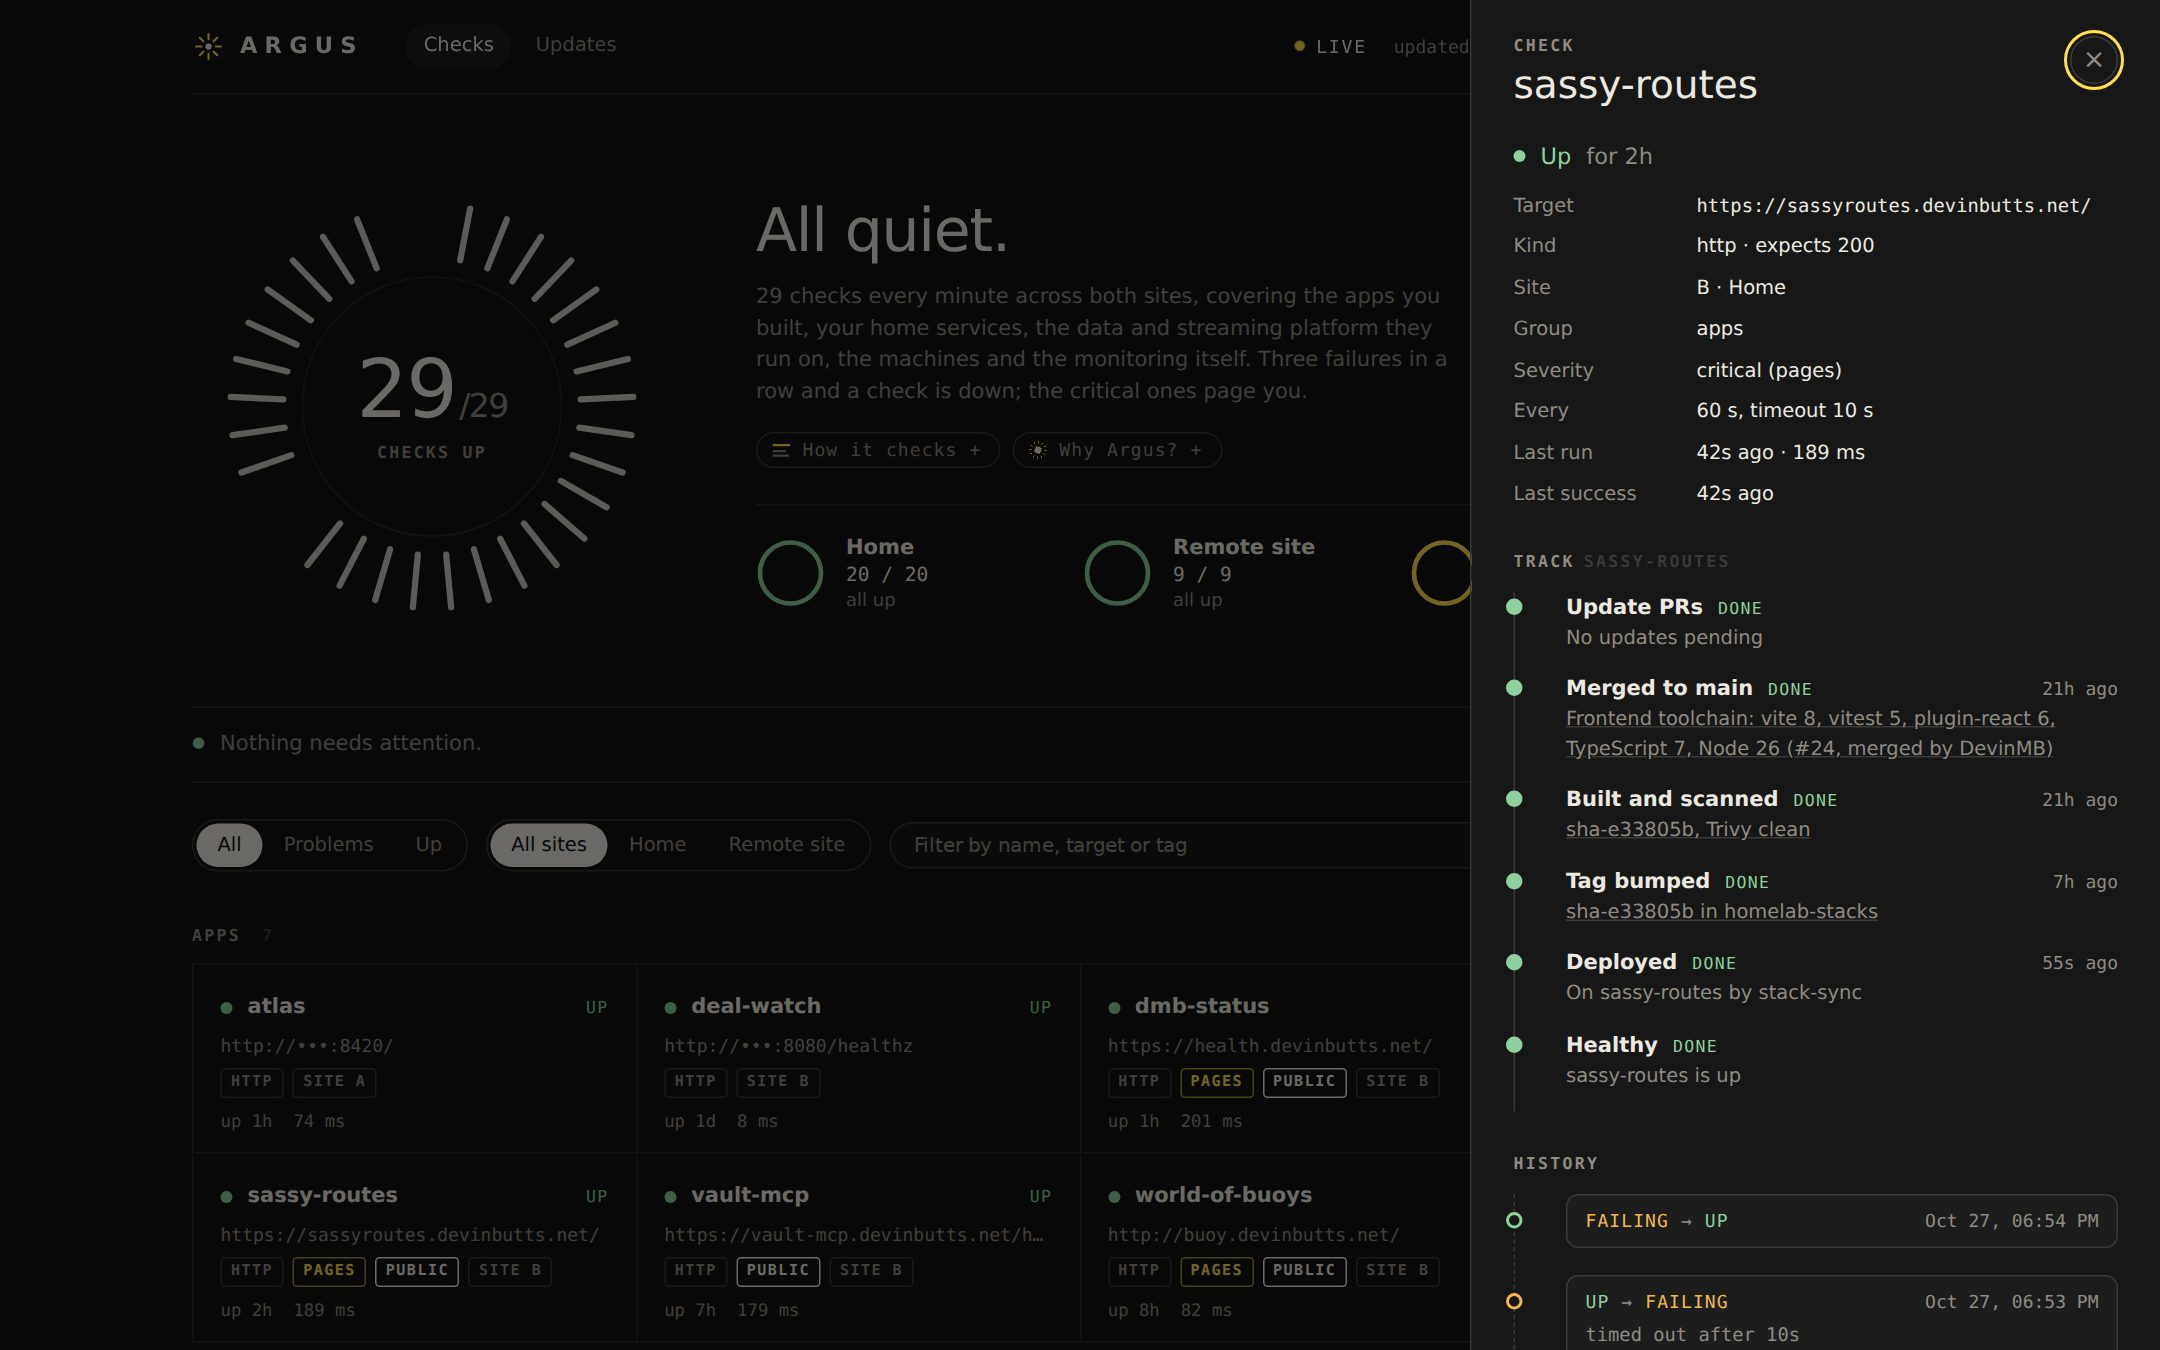
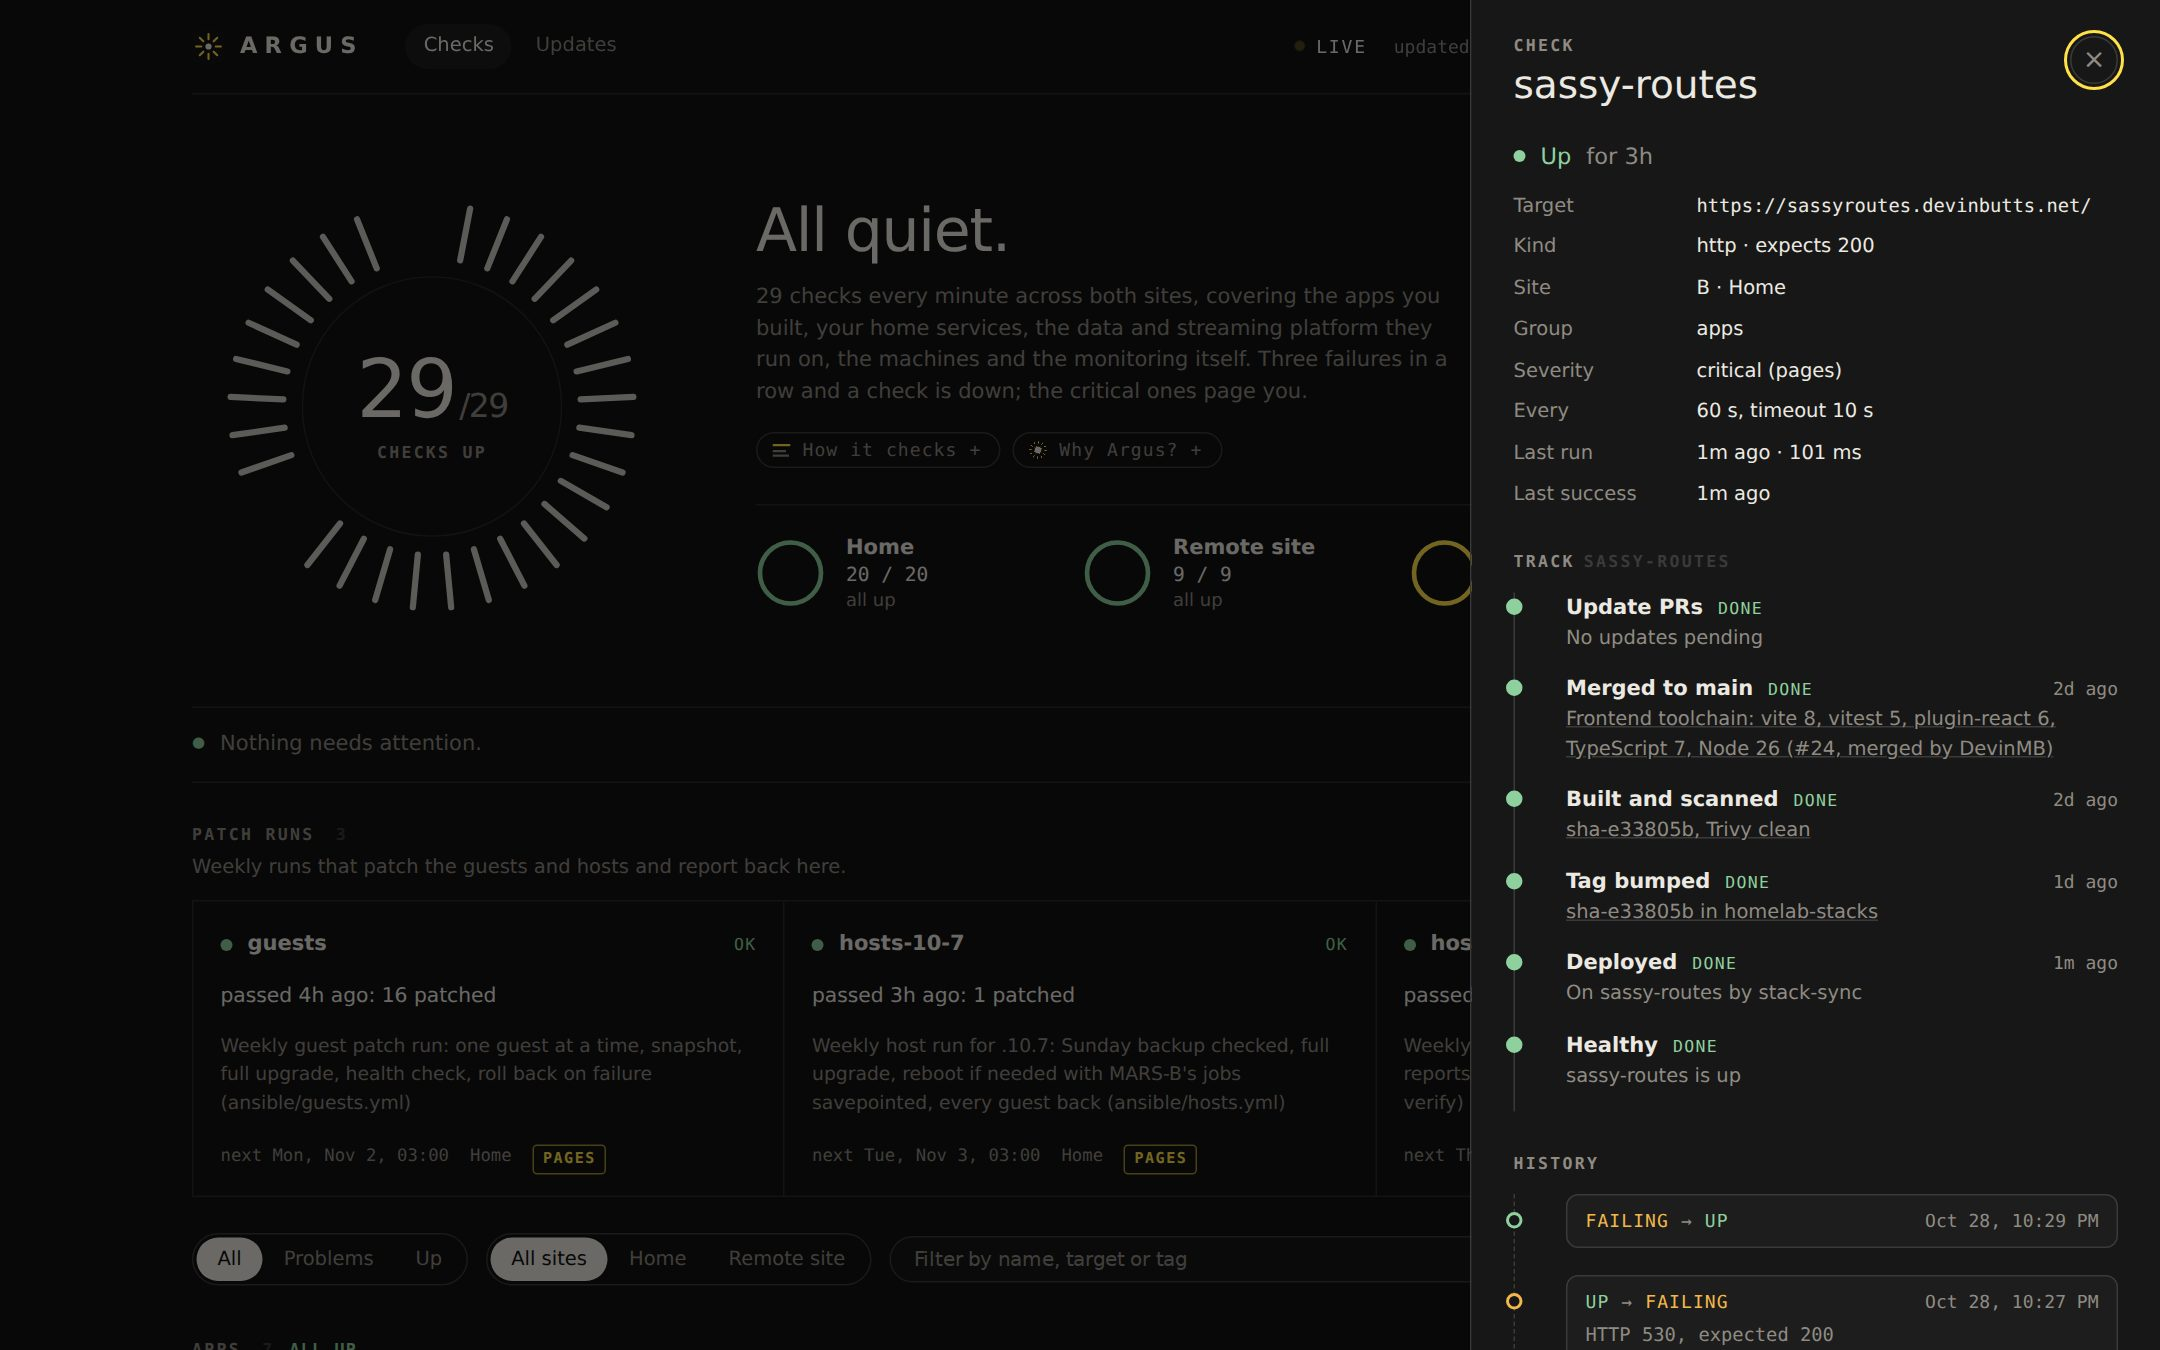
Argus page: screenshots for the new Updates and Checks UI (#6)
* Argus page: screenshots and captions for the new Updates and Checks UI

Claude-Session: https://claude.ai/code/session_01NaZdmEt5VCJtgF27kW7pbJ

* CI: ignore fonts.googleapis.com in HTML-Proofer, like fonts.gstatic.com

Google Fonts CSS is generated per browser, so it cannot carry an SRI hash,
and the bare preconnect origin answers 404. Failing on main since the
portfolio refresh.

Claude-Session: https://claude.ai/code/session_01NaZdmEt5VCJtgF27kW7pbJ

* CSS: drop text-rendering, which the W3C validator in CI rejects

Failing CI on main since the June redesign; browsers' default rendering
is close enough.

Claude-Session: https://claude.ai/code/session_01NaZdmEt5VCJtgF27kW7pbJ

---------

diff --git a/assets/css/style.scss b/assets/css/style.scss
@@ -40,7 +40,6 @@ body {
     radial-gradient(1100px 620px at 50% -8%, var(--bg-glow), transparent 70%);
   background-repeat: no-repeat;
   -webkit-font-smoothing: antialiased;
-  text-rendering: optimizeLegibility;
 }
 
 a { color: var(--sage-700); text-decoration: none; }

diff --git a/argus.md b/argus.md
@@ -18,10 +18,18 @@ description: Argus, the monitor behind my self-running homelab. Every service ch
 </section>
 
 <figure class="shot">
-  <img src="{{ '/assets/pictures/argus/argus-overview.jpg' | relative_url }}" alt="Argus overview: a ring of 29 ticks, 29 of 29 checks up, 'All quiet', and a grid of services with their status" loading="lazy">
+  <img src="{{ '/assets/pictures/argus/argus-overview.jpg' | relative_url }}" alt="Argus overview: a ring of 29 ticks, 29 of 29 checks up, 'All quiet', and the three weekly patch runs with their last result and next date" loading="lazy">
   <figcaption>
     <strong>Everything at a glance.</strong>
-    One tick per service. A check that fails three times in a row is down, and the critical ones page my phone. "All quiet" is the normal state, so anything else stands out at once.
+    One tick per service. A check that fails three times in a row is down, and the critical ones page my phone. "All quiet" is the normal state, so anything else stands out at once. Below it are the weekly patch runs for guests and hosts: how the last one went and when the next one starts.
+  </figcaption>
+</figure>
+
+<figure class="shot">
+  <img src="{{ '/assets/pictures/argus/argus-services.jpg' | relative_url }}" alt="Every service by group, one compact line each: apps, home services, the data platform, the machines and the monitoring, all up" loading="lazy">
+  <figcaption>
+    <strong>Healthy is one line.</strong>
+    Each service that is fine takes a single line, grouped by what it is. Only a service with a problem gets a full card with its error, so a problem is the first thing you see.
   </figcaption>
 </figure>
 
@@ -34,10 +42,10 @@ description: Argus, the monitor behind my self-running homelab. Every service ch
 </figure>
 
 <figure class="shot">
-  <img src="{{ '/assets/pictures/argus/argus-updates.jpg' | relative_url }}" alt="The Updates view: one card per app with its newest change and a six-step track, plus counts of updates waiting, failing and merged" loading="lazy">
+  <img src="{{ '/assets/pictures/argus/argus-updates.jpg' | relative_url }}" alt="The Updates view: 'All 11 apps up to date', a five-lane board from Testing to Live with every app in the Live lane, and one plain-language row per app" loading="lazy">
   <figcaption>
     <strong>Updates that apply themselves.</strong>
-    Every app's newest change on its way to production. Routine updates are tested, merged, built, scanned and deployed without me: 18 in the last two weeks. Only big version jumps wait for a person.
+    One sentence says whether anything needs me. A board shows which stage each app is in: testing, merging, building, deploying or live. Each app then gets one plain sentence on where it is. Routine updates go all the way to live without me; only major version jumps wait for a person.
   </figcaption>
 </figure>
 
